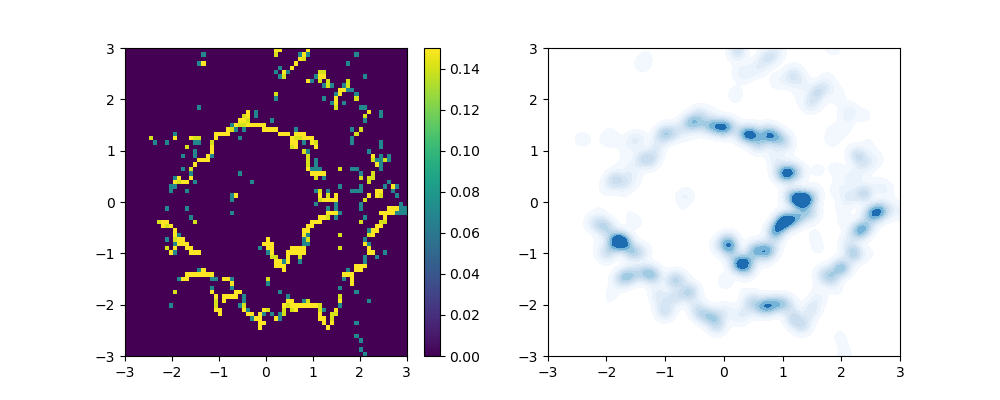
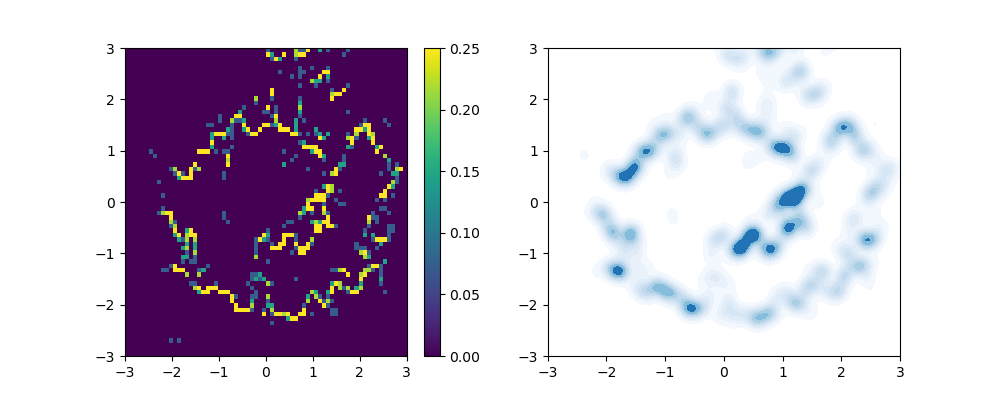
generic commit

diff --git a/scripts/transport/kvae_flow.py b/scripts/transport/kvae_flow.py
@@ -207,7 +207,7 @@ class CondTransportKernel(nn.Module):
         self.fit_kXXvar_inv = torch.linalg.inv(self.fit_kernel(self.X_var, self.X_var) + self.nugget_matrix)
 
 
-        self.params['mmd_kernel_params']['l'] *= l_scale(self.Y_mu).cpu()
+        self.params['mmd_kernel_params']['l'] *= l_scale(self.Y_mu_test).cpu()
         self.mmd_kernel = get_kernel(self.params['mmd_kernel_params'], self.device)
 
         self.Z_mean = nn.Parameter(self.init_Z(), requires_grad=True)
@@ -239,11 +239,11 @@ class CondTransportKernel(nn.Module):
 
     def get_train_idx(self):
         batch_size = self.params['batch_size']
-        fixed_idx = list(range(int(batch_size * .8)))
         N = len(self.params['Y_mu'])
         inducing_idx = random.sample(list(range(batch_size//2, N)), k = int(batch_size*.2))
         train_idx = torch.tensor(fixed_idx + inducing_idx).long()
         return train_idx
+
 
     def p_vec(self, n):
         return torch.full([n], 1/n, device=self.device, dtype=self.dtype)
@@ -711,8 +711,8 @@ def vl_exp(N=10000, n_iter=51, Yd=18, normal=True, exp_name='kvl_exp2', n_transp
 
 def run():
     ref_gen = sample_normal
-    N = 20000
-    batch_size = 5000
+    N = 2000
+    batch_size = 500
     two_d_exp(ref_gen, sample_swiss_roll, N=N, n_iter=49, plt_range=[[-3, 3], [-3, 3]], process_funcs=[],
               skip_idx=1, slice_vals=[], slice_range=[-3,3], exp_name='exp', n_transports=50,
               vmax=.25, batch_size = batch_size, N_plot = N, reg_lambda= 1e-5)
